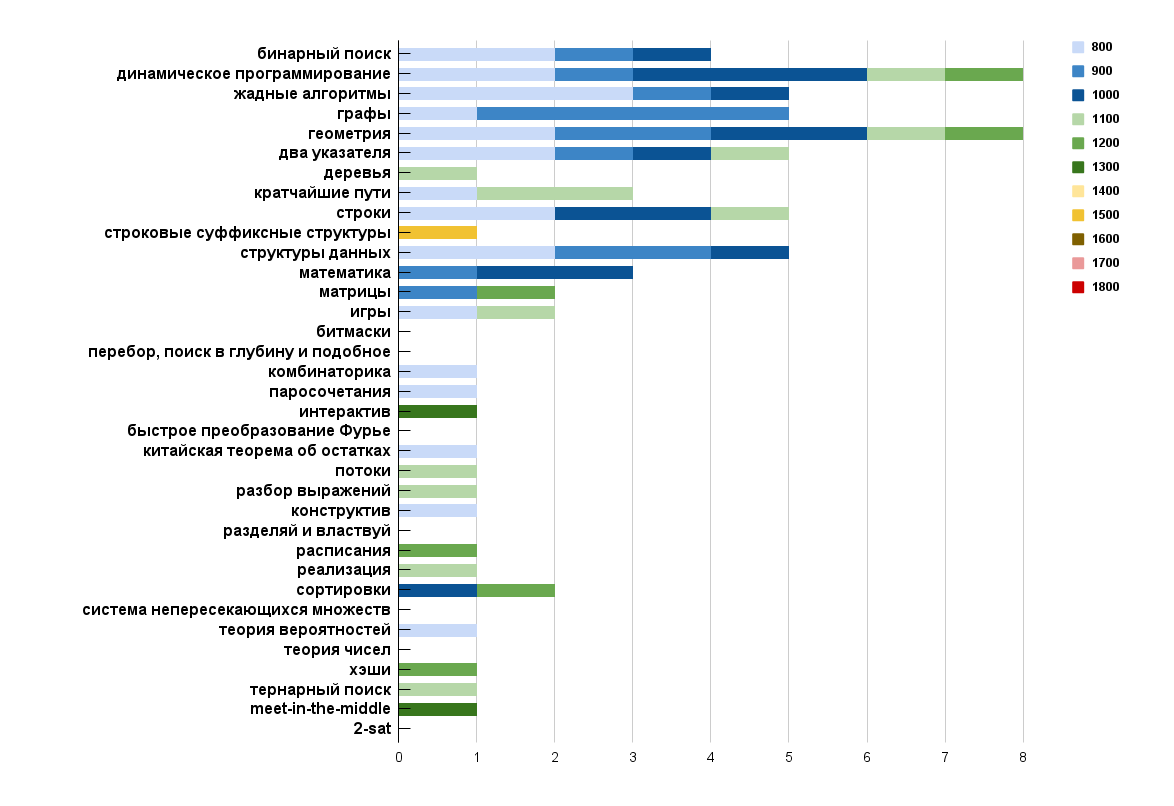
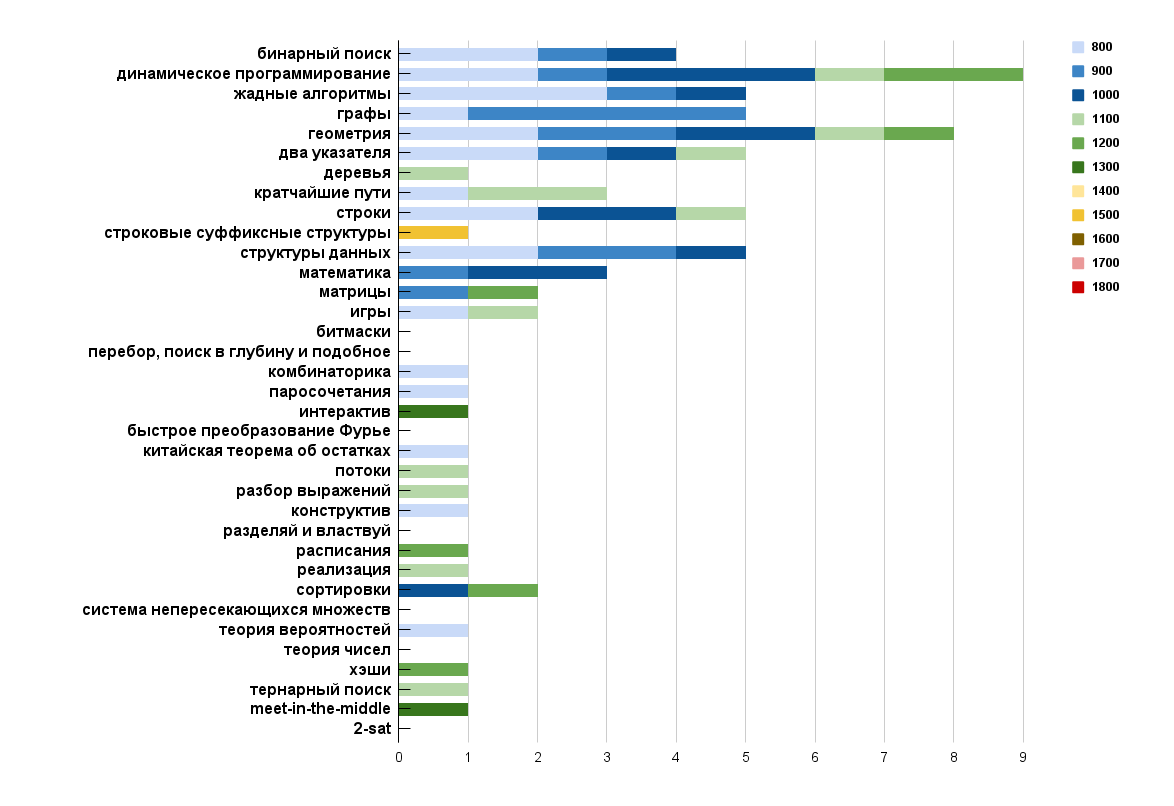
Almost solve 1200 in dp.

diff --git a/kotlin/CodeforcesArchive/src/main/kotlin/dp/compl_1200/1982C_Boring_day.kt b/kotlin/CodeforcesArchive/src/main/kotlin/dp/compl_1200/1982C_Boring_day.kt
@@ -1,0 +1,29 @@
+package dp.compl_1200
+
+fun main(){
+    val t = readln().toInt()
+    repeat(t){
+        val (n, l, r) = readln().split(" ").map { it.toLong() }
+        val a = readln().split(" ").map { it.toLong() }
+        var curTop = 0
+        var curEnd = 0
+        var curSum = 0L
+        var roundsAmount = 0
+        while (curTop < n){
+            while (curEnd < n && curSum < l){
+                curSum += a[curEnd]
+                ++curEnd
+            }
+            if (curSum in l..r){
+                ++roundsAmount
+                curTop = curEnd
+                curSum = 0L
+            }
+            else {
+                curSum -= a[curTop]
+                ++curTop
+            }
+        }
+        println(roundsAmount)
+    }
+}
